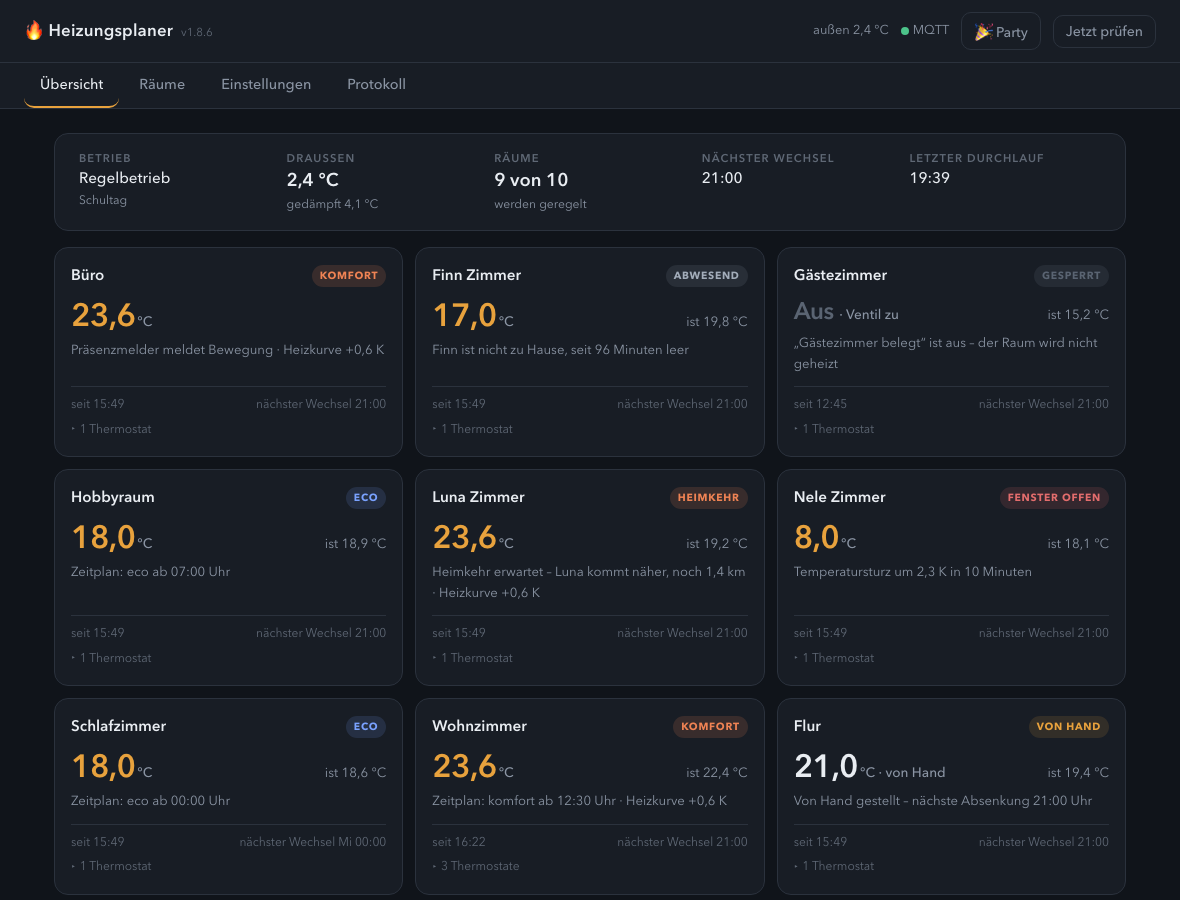
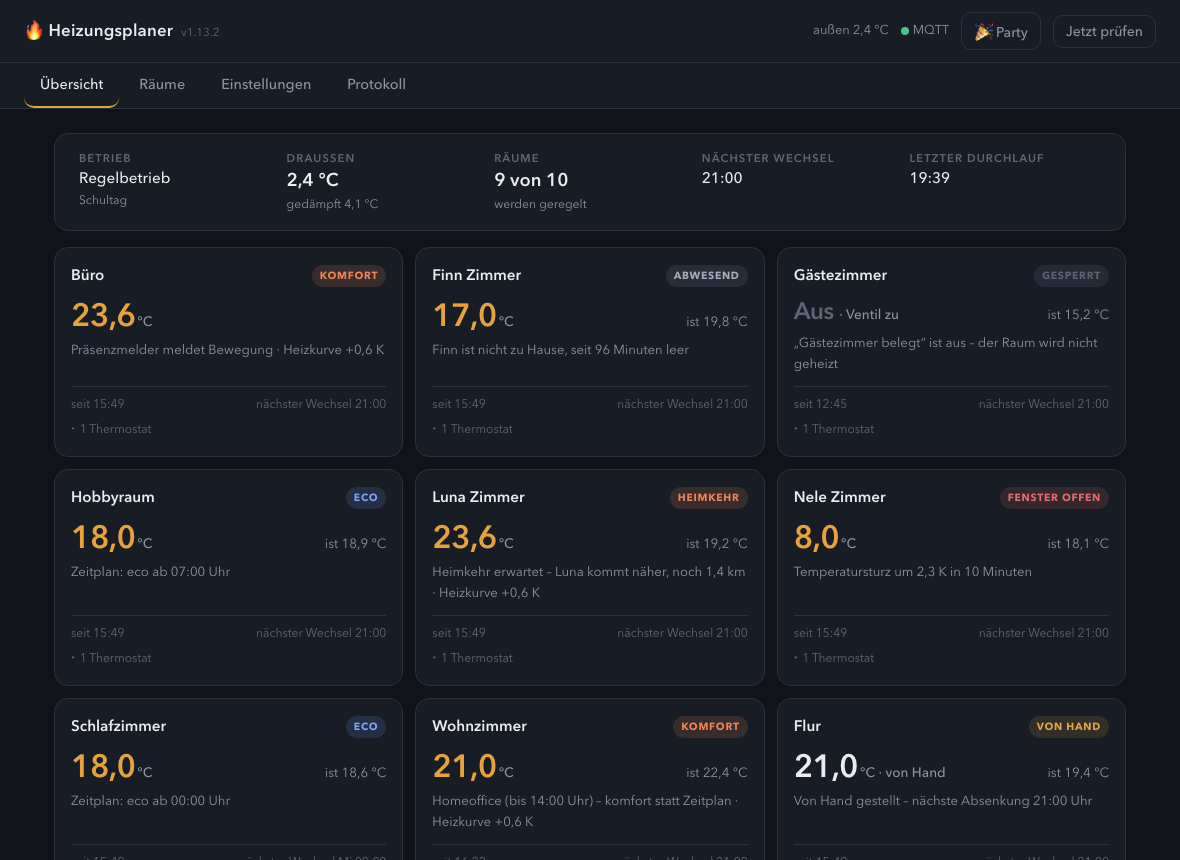
Dokumentation auf den Stand von 1.13.2
Alle Bilder neu aufgenommen: Sie zeigten noch 1.8.6 und einen Zustand ohne
Übersteuerung. Der Beispielzustand hat jetzt eine laufende Homeoffice-Regel im
Wohnzimmer, und der Rundgang zeigt die Regel mit Bedingungen, Zeitfenster und
Lage-Anzeige.

README und Anleitung nennen die neuen Attribute des Raum-Sensors und die
Kachel fürs Dashboard – samt der beiden Fallen, die dabei Zeit gekostet
haben: `conditional`-Karten melden in Sections-Ansichten von HA 2026.8
„Konfigurationsfehler“, und ein leeres Attribut lässt eine Tile-Karte auf den
Zustand zurückfallen.

diff --git a/README.md b/README.md
@@ -69,6 +69,14 @@ nur an schulfreien Tagen:
 
 ![Zeitplan mit Umschaltpunkten für Schultage und schulfreie Tage](heizungsplaner/doku/bilder/raum-zeitplan.png)
 
+Darunter stehen die **Übersteuerungsregeln**: Solange alle Bedingungen einer
+Regel zutreffen und die Uhrzeit im Fenster liegt, gilt ihr Modus statt des
+Zeitplans. So entsteht eine Homeoffice-Regelung ohne Schalter – Werktag, keine
+Ferien, jemand ist zu Hause. Die Regel sagt selbst, ob sie greift, und wenn
+nicht, woran es liegt:
+
+![Übersteuerungsregel mit Bedingungen und Zeitfenster](heizungsplaner/doku/bilder/uebersteuerung.png)
+
 Unter **Belegung** steht, wer den Raum benutzt: zuständige Personen, ein
 Präsenzmelder, eine eigene Karenzzeit – und ob der Raum bei der Partytaste
 mitmacht:
@@ -122,7 +130,7 @@ Die ausführliche Anleitung steht in [DOCS.md](heizungsplaner/DOCS.md).
 | `sensor.heizungsplaner_aussentemperatur_gedaempft` | geglättete Außentemperatur |
 | `binary_sensor.heizungsplaner_sommerbetrieb` | Sommerbetrieb aktiv |
 | `binary_sensor.heizungsplaner_trockenlauf` | Trockenlauf aktiv |
-| `sensor.heizungsplaner_raum_<name>` | Zielwert je Raum, mit Begründung als Attribut |
+| `sensor.heizungsplaner_raum_<name>` | Zielwert je Raum; Attribute: `zustand`, `begruendung`, `ist_temperatur`, `naechster_wechsel` sowie `uebersteuerung`, `uebersteuerung_greift`, `uebersteuerung_lage` und `uebersteuerung_bis` |
 | `switch.heizungsplaner_party` | Partytaste, mit Restzeit als Attribut |
 | `binary_sensor.heizungsplaner_stoerung` | ein Thermostat meldet sich nicht mehr; Meldungen nach Schwere getrennt als Attribute |
 | `sensor.heizungsplaner_stoerungen` | Zahl der ausgefallenen Thermostate |
@@ -133,6 +141,10 @@ Unter [`heizungsplaner/dashboard/`](heizungsplaner/dashboard/) liegt eine
 fertige Übersicht zum Einfügen: Partytaste, Störungsanzeige und eine Tabelle
 aller Räume mit Zielwert, Ist-Temperatur und nächstem Schaltpunkt. Sie kommt
 mit den MQTT-Entitäten aus und funktioniert damit auch von unterwegs.
+
+Dazu `regelkarte(sensor)` – eine Kachel, die **nur erscheint, solange eine
+Übersteuerungsregel greift**, und zeigt, bis wann. Sie gehört dorthin, wo man
+den Raum ohnehin ansieht, nicht in den Planer-Abschnitt.
 
 ## Prüflauf
 

diff --git a/heizungsplaner/DOCS.md b/heizungsplaner/DOCS.md
@@ -609,6 +609,19 @@ Zielwert, Ist-Temperatur, Zustand und dem nächsten Schaltpunkt. Die Karten
 lesen ausschließlich die MQTT-Entitäten und funktionieren deshalb auch von
 unterwegs.
 
+Dazu kommt `regelkarte(sensor)`: eine Kachel, die nur erscheint, solange eine
+Übersteuerungsregel greift, und zeigt, bis wann („bis 14:00 Uhr"). Sie gehört
+in den Abschnitt, in dem man den Raum ohnehin ansieht. Grundlage sind die
+Attribute `uebersteuerung`, `uebersteuerung_greift`, `uebersteuerung_lage` und
+`uebersteuerung_bis` am Raum-Sensor – eine Karte, die stattdessen die
+Begründung nach Stichworten durchsucht, bricht beim ersten umbenannten Raum.
+
+**Keine `conditional`-Karte verwenden:** In einer Sections-Ansicht meldet die
+in Home Assistant 2026.8 „Konfigurationsfehler". Dort gehört `visibility` an
+die Karte selbst. Und ist das unter `state_content` genannte Attribut leer,
+zeigt eine Tile-Karte ersatzweise den Zustand des Sensors – deshalb ist
+`uebersteuerung_bis` nie leer, sondern trägt „ruht", wenn nichts läuft.
+
 ## Dateien
 
 | Datei unter `/data` | Inhalt |
